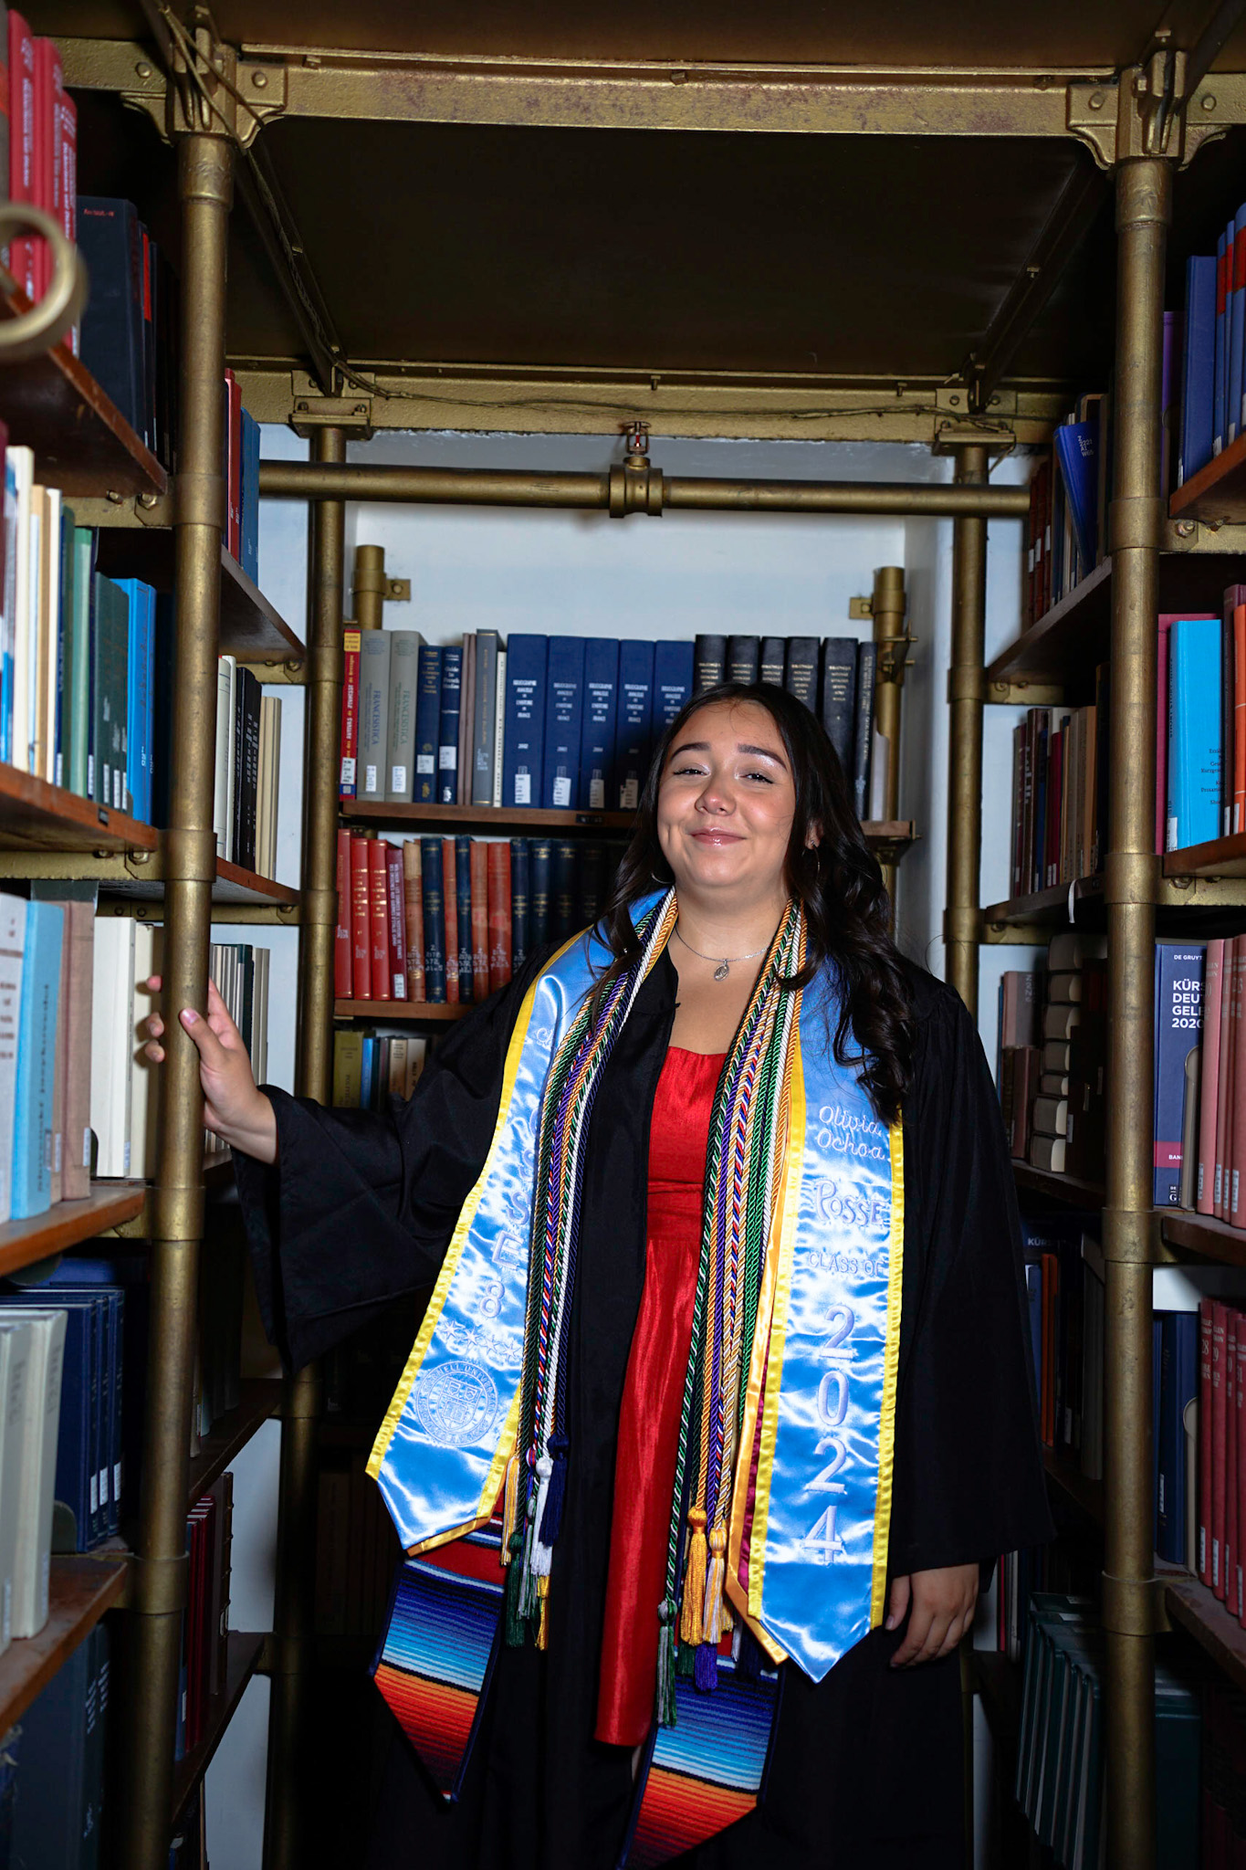
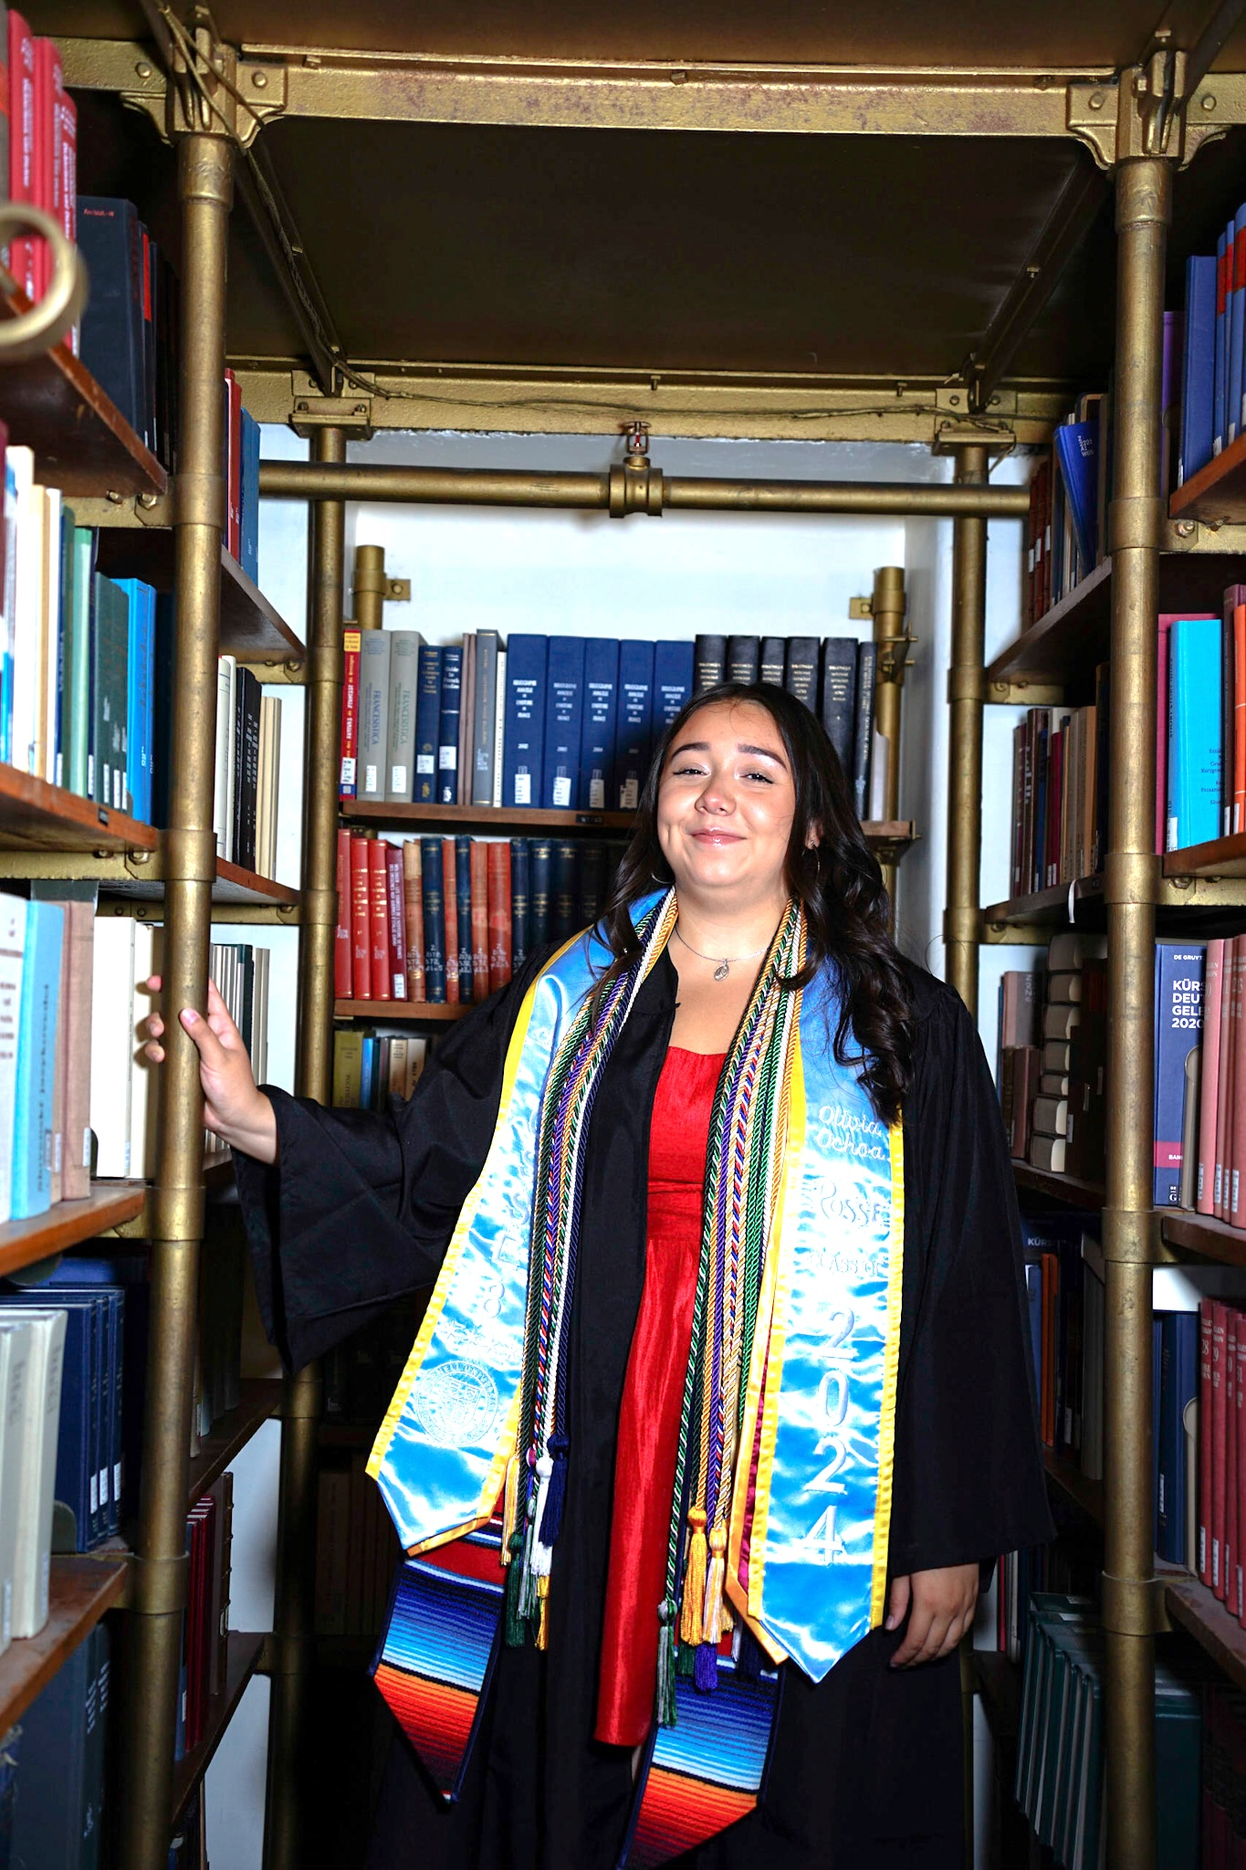
brightened photos, changed org. added background to #work

diff --git a/index.html b/index.html
@@ -128,98 +128,112 @@
       </section>
 
       <section id="work" class="gallery-section">
-        <div class="section-heading fade">
-          <p class="eyebrow">My Work</p>
-          <h2>200+ Completed Grad Sessions:</h2>
-        </div>
+        <div class="work-section-wrap">
+          <div class="section-heading fade">
+            <p class="eyebrow">My Work</p>
+            <h2>200+ Completed Grad Sessions:</h2>
+          </div>
 
-        <div class="work-grid">
-          <button class="work-card fade" type="button" data-lightbox-src="./Photos/DSC00226.JPG" data-lightbox-alt="ShotbyALL graduation portfolio image 1">
-            <img src="./Photos/DSC00226.JPG" alt="ShotbyALL graduation portfolio image 1" width="1200" height="1500" loading="lazy" decoding="async" />
-          </button>
-          <button class="work-card fade" type="button" data-lightbox-src="./Photos/DSC00332.JPG" data-lightbox-alt="ShotbyALL graduation portfolio image 2">
-            <img src="./Photos/DSC00332.JPG" alt="ShotbyALL graduation portfolio image 2" width="1200" height="1500" loading="lazy" decoding="async" />
-          </button>
-          <button class="work-card fade" type="button" data-lightbox-src="./Photos/DSC00564.JPG" data-lightbox-alt="ShotbyALL graduation portfolio image 3">
-            <img src="./Photos/DSC00564.JPG" alt="ShotbyALL graduation portfolio image 3" width="1200" height="1500" loading="lazy" decoding="async" />
-          </button>
-          <button class="work-card fade" type="button" data-lightbox-src="./Photos/DSC00874.JPG" data-lightbox-alt="ShotbyALL graduation portfolio image 4">
-            <img src="./Photos/DSC00874.JPG" alt="ShotbyALL graduation portfolio image 4" width="1200" height="1500" loading="lazy" decoding="async" />
-          </button>
-          <button class="work-card fade" type="button" data-lightbox-src="./Photos/DSC00894.JPG" data-lightbox-alt="ShotbyALL graduation portfolio image 5">
-            <img src="./Photos/DSC00894.JPG" alt="ShotbyALL graduation portfolio image 5" width="1200" height="1500" loading="lazy" decoding="async" />
-          </button>
-          <button class="work-card fade" type="button" data-lightbox-src="./Photos/DSC00938.JPG" data-lightbox-alt="ShotbyALL graduation portfolio image 6">
-            <img src="./Photos/DSC00938.JPG" alt="ShotbyALL graduation portfolio image 6" width="1200" height="1500" loading="lazy" decoding="async" />
-          </button>
-          <button class="work-card fade" type="button" data-lightbox-src="./Photos/DSC00941.JPG" data-lightbox-alt="ShotbyALL graduation portfolio image 7">
-            <img src="./Photos/DSC00941.JPG" alt="ShotbyALL graduation portfolio image 7" width="1200" height="1500" loading="lazy" decoding="async" />
-          </button>
-          <button class="work-card fade" type="button" data-lightbox-src="./Photos/DSC01092.JPG" data-lightbox-alt="ShotbyALL graduation portfolio image 8">
-            <img src="./Photos/DSC01092.JPG" alt="ShotbyALL graduation portfolio image 8" width="1200" height="1500" loading="lazy" decoding="async" />
-          </button>
-          <button class="work-card fade" type="button" data-lightbox-src="./Photos/DSC01139.JPG" data-lightbox-alt="ShotbyALL graduation portfolio image 9">
-            <img src="./Photos/DSC01139.JPG" alt="ShotbyALL graduation portfolio image 9" width="1200" height="1500" loading="lazy" decoding="async" />
-          </button>
-          <button class="work-card fade" type="button" data-lightbox-src="./Photos/DSC01485.JPG" data-lightbox-alt="ShotbyALL graduation portfolio image 10">
-            <img src="./Photos/DSC01485.JPG" alt="ShotbyALL graduation portfolio image 10" width="1200" height="1500" loading="lazy" decoding="async" />
-          </button>
-          <button class="work-card fade" type="button" data-lightbox-src="./Photos/DSC01807.JPG" data-lightbox-alt="ShotbyALL graduation portfolio image 11">
-            <img src="./Photos/DSC01807.JPG" alt="ShotbyALL graduation portfolio image 11" width="1200" height="1500" loading="lazy" decoding="async" />
-          </button>
-          <button class="work-card fade" type="button" data-lightbox-src="./Photos/DSC01862.JPG" data-lightbox-alt="ShotbyALL graduation portfolio image 13">
-            <img src="./Photos/DSC01862.JPG" alt="ShotbyALL graduation portfolio image 13" width="1200" height="1500" loading="lazy" decoding="async" />
-          </button>
-          <button class="work-card fade" type="button" data-lightbox-src="./Photos/DSC09463.JPG" data-lightbox-alt="ShotbyALL graduation portfolio image 14">
-            <img src="./Photos/DSC09463.JPG" alt="ShotbyALL graduation portfolio image 14" width="1200" height="1500" loading="lazy" decoding="async" />
-          </button>
-          <button class="work-card fade" type="button" data-lightbox-src="./Photos/IMG_0097.JPG" data-lightbox-alt="ShotbyALL graduation portfolio image 17">
-            <img src="./Photos/IMG_0097.JPG" alt="ShotbyALL graduation portfolio image 17" width="1200" height="1500" loading="lazy" decoding="async" />
-          </button>
-          <button class="work-card fade" type="button" data-lightbox-src="./Photos/IMG_0149.JPG" data-lightbox-alt="ShotbyALL graduation portfolio image 18">
-            <img src="./Photos/IMG_0149.JPG" alt="ShotbyALL graduation portfolio image 18" width="1200" height="1500" loading="lazy" decoding="async" />
-          </button>
-          <button class="work-card fade" type="button" data-lightbox-src="./Photos/IMG_0435.JPG" data-lightbox-alt="ShotbyALL graduation portfolio image 19">
-            <img src="./Photos/IMG_0435.JPG" alt="ShotbyALL graduation portfolio image 19" width="1200" height="1500" loading="lazy" decoding="async" />
-          </button>
-          <button class="work-card fade" type="button" data-lightbox-src="./Photos/IMG_6670.JPG" data-lightbox-alt="ShotbyALL graduation portfolio image 20">
-            <img src="./Photos/IMG_6670.JPG" alt="ShotbyALL graduation portfolio image 20" width="1200" height="1500" loading="lazy" decoding="async" />
-          </button>
-          <button class="work-card fade" type="button" data-lightbox-src="./Photos/IMG_6735.JPG" data-lightbox-alt="ShotbyALL graduation portfolio image 21">
-            <img src="./Photos/IMG_6735.JPG" alt="ShotbyALL graduation portfolio image 21" width="1200" height="1500" loading="lazy" decoding="async" />
-          </button>
-          <button class="work-card fade" type="button" data-lightbox-src="./Photos/IMG_6788.JPG" data-lightbox-alt="ShotbyALL graduation portfolio image 22">
-            <img src="./Photos/IMG_6788.JPG" alt="ShotbyALL graduation portfolio image 22" width="1200" height="1500" loading="lazy" decoding="async" />
-          </button>
-          <button class="work-card fade" type="button" data-lightbox-src="./Photos/IMG_7620.JPG" data-lightbox-alt="ShotbyALL graduation portfolio image 24">
-            <img src="./Photos/IMG_7620.JPG" alt="ShotbyALL graduation portfolio image 24" width="1200" height="1500" loading="lazy" decoding="async" />
-          </button>
-          <button class="work-card fade" type="button" data-lightbox-src="./Photos/IMG_7828.JPG" data-lightbox-alt="ShotbyALL graduation portfolio image 25">
-            <img src="./Photos/IMG_7828.JPG" alt="ShotbyALL graduation portfolio image 25" width="1200" height="1500" loading="lazy" decoding="async" />
-          </button>
-          <button class="work-card fade" type="button" data-lightbox-src="./Photos/IMG_7972.JPG" data-lightbox-alt="ShotbyALL graduation portfolio image 26">
-            <img src="./Photos/IMG_7972.JPG" alt="ShotbyALL graduation portfolio image 26" width="1200" height="1500" loading="lazy" decoding="async" />
-          </button>
-          <button class="work-card fade" type="button" data-lightbox-src="./Photos/IMG_8260.JPG" data-lightbox-alt="ShotbyALL graduation portfolio image 27">
-            <img src="./Photos/IMG_8260.JPG" alt="ShotbyALL graduation portfolio image 27" width="1200" height="1500" loading="lazy" decoding="async" />
-          </button>
-          <button class="work-card fade" type="button" data-lightbox-src="./Photos/IMG_8330.JPG" data-lightbox-alt="ShotbyALL graduation portfolio image 28">
-            <img src="./Photos/IMG_8330.JPG" alt="ShotbyALL graduation portfolio image 28" width="1200" height="1500" loading="lazy" decoding="async" />
-          </button>
-          <button class="work-card fade" type="button" data-lightbox-src="./Photos/IMG_9107.JPG" data-lightbox-alt="ShotbyALL graduation portfolio image 30">
-            <img src="./Photos/IMG_9107.JPG" alt="ShotbyALL graduation portfolio image 30" width="1200" height="1500" loading="lazy" decoding="async" />
-          </button>
-          <button class="work-card fade" type="button" data-lightbox-src="./Photos/IMG_9359.JPG" data-lightbox-alt="ShotbyALL graduation portfolio image 31">
-            <img src="./Photos/IMG_9359.JPG" alt="ShotbyALL graduation portfolio image 31" width="1200" height="1500" loading="lazy" decoding="async" />
-          </button>
-          <button class="work-card fade" type="button" data-lightbox-src="./Photos/IMG_9415.JPG" data-lightbox-alt="ShotbyALL graduation portfolio image 33">
+          <div class="work-grid">
+<button class="work-card fade" type="button" data-lightbox-src="./Photos/IMG_9415.JPG" data-lightbox-alt="ShotbyALL graduation portfolio image 33">
             <img src="./Photos/IMG_9415.JPG" alt="ShotbyALL graduation portfolio image 33" width="1200" height="1500" loading="lazy" decoding="async" />
           </button>
-          <button class="work-card fade" type="button" data-lightbox-src="./Photos/IMG_9898.JPG" data-lightbox-alt="ShotbyALL graduation portfolio image 34">
-            <img src="./Photos/IMG_9898.JPG" alt="ShotbyALL graduation portfolio image 34" width="1200" height="1500" loading="lazy" decoding="async" />
+<button class="work-card fade" type="button" data-lightbox-src="./Photos/DSC01485.JPG" data-lightbox-alt="ShotbyALL graduation portfolio image 10">
+            <img src="./Photos/DSC01485.JPG" alt="ShotbyALL graduation portfolio image 10" width="1200" height="1500" loading="lazy" decoding="async" />
+          </button>
+<button class="work-card fade" type="button" data-lightbox-src="./Photos/DSC01435.JPG" data-lightbox-alt="ShotbyALL graduation portfolio image 36">
+            <img src="./Photos/DSC01435.JPG" alt="ShotbyALL graduation portfolio image 36" width="1200" height="1500" loading="lazy" decoding="async" />
+          </button>
+<button class="work-card fade" type="button" data-lightbox-src="./Photos/DSC09728.JPG" data-lightbox-alt="ShotbyALL graduation portfolio image 39">
+            <img src="./Photos/DSC09728.JPG" alt="ShotbyALL graduation portfolio image 39" width="1200" height="1500" loading="lazy" decoding="async" />
+          </button>
+<button class="work-card fade" type="button" data-lightbox-src="./Photos/DSC01139.JPG" data-lightbox-alt="ShotbyALL graduation portfolio image 9">
+            <img src="./Photos/DSC01139.JPG" alt="ShotbyALL graduation portfolio image 9" width="1200" height="1500" loading="lazy" decoding="async" />
+          </button>
+<button class="work-card fade" type="button" data-lightbox-src="./Photos/IMG_6735.JPG" data-lightbox-alt="ShotbyALL graduation portfolio image 21">
+            <img src="./Photos/IMG_6735.JPG" alt="ShotbyALL graduation portfolio image 21" width="1200" height="1500" loading="lazy" decoding="async" />
+          </button>
+<button class="work-card fade" type="button" data-lightbox-src="./Photos/IMG_9107.JPG" data-lightbox-alt="ShotbyALL graduation portfolio image 30">
+            <img src="./Photos/IMG_9107.JPG" alt="ShotbyALL graduation portfolio image 30" width="1200" height="1500" loading="lazy" decoding="async" />
+          </button>
+<button class="work-card fade" type="button" data-lightbox-src="./Photos/DSC00564.JPG" data-lightbox-alt="ShotbyALL graduation portfolio image 3">
+            <img src="./Photos/DSC00564.JPG" alt="ShotbyALL graduation portfolio image 3" width="1200" height="1500" loading="lazy" decoding="async" />
+          </button>
+<button class="work-card fade" type="button" data-lightbox-src="./Photos/DSC00941.JPG" data-lightbox-alt="ShotbyALL graduation portfolio image 7">
+            <img src="./Photos/DSC00941.JPG" alt="ShotbyALL graduation portfolio image 7" width="1200" height="1500" loading="lazy" decoding="async" />
+          </button>
+<button class="work-card fade" type="button" data-lightbox-src="./Photos/DSC00226.JPG" data-lightbox-alt="ShotbyALL graduation portfolio image 1">
+            <img src="./Photos/DSC00226.JPG" alt="ShotbyALL graduation portfolio image 1" width="1200" height="1500" loading="lazy" decoding="async" />
+          </button>
+<button class="work-card fade" type="button" data-lightbox-src="./Photos/DSC01807.JPG" data-lightbox-alt="ShotbyALL graduation portfolio image 11">
+            <img src="./Photos/DSC01807.JPG" alt="ShotbyALL graduation portfolio image 11" width="1200" height="1500" loading="lazy" decoding="async" />
+          </button>
+<button class="work-card fade" type="button" data-lightbox-src="./Photos/DSC00938.JPG" data-lightbox-alt="ShotbyALL graduation portfolio image 6">
+            <img src="./Photos/DSC00938.JPG" alt="ShotbyALL graduation portfolio image 6" width="1200" height="1500" loading="lazy" decoding="async" />
+          </button>
+<button class="work-card fade" type="button" data-lightbox-src="./Photos/DSC07450.JPG" data-lightbox-alt="ShotbyALL graduation portfolio image 38">
+            <img src="./Photos/DSC07450.JPG" alt="ShotbyALL graduation portfolio image 38" width="1200" height="1500" loading="lazy" decoding="async" />
+          </button>
+<button class="work-card fade" type="button" data-lightbox-src="./Photos/DSC01092.JPG" data-lightbox-alt="ShotbyALL graduation portfolio image 8">
+            <img src="./Photos/DSC01092.JPG" alt="ShotbyALL graduation portfolio image 8" width="1200" height="1500" loading="lazy" decoding="async" />
+          </button>
+<button class="work-card fade" type="button" data-lightbox-src="./Photos/DSC00874.JPG" data-lightbox-alt="ShotbyALL graduation portfolio image 4">
+            <img src="./Photos/DSC00874.JPG" alt="ShotbyALL graduation portfolio image 4" width="1200" height="1500" loading="lazy" decoding="async" />
+          </button>
+<button class="work-card fade" type="button" data-lightbox-src="./Photos/IMG_7620.JPG" data-lightbox-alt="ShotbyALL graduation portfolio image 24">
+            <img src="./Photos/IMG_7620.JPG" alt="ShotbyALL graduation portfolio image 24" width="1200" height="1500" loading="lazy" decoding="async" />
+          </button>
+<button class="work-card fade" type="button" data-lightbox-src="./Photos/DSC01412.JPG" data-lightbox-alt="ShotbyALL graduation portfolio image 35">
+            <img src="./Photos/DSC01412.JPG" alt="ShotbyALL graduation portfolio image 35" width="1200" height="1500" loading="lazy" decoding="async" />
+          </button>
+<button class="work-card fade" type="button" data-lightbox-src="./Photos/DSC07366.JPG" data-lightbox-alt="ShotbyALL graduation portfolio image 37">
+            <img src="./Photos/DSC07366.JPG" alt="ShotbyALL graduation portfolio image 37" width="1200" height="1500" loading="lazy" decoding="async" />
+          </button>
+<button class="work-card fade" type="button" data-lightbox-src="./Photos/IMG_7972.JPG" data-lightbox-alt="ShotbyALL graduation portfolio image 26">
+            <img src="./Photos/IMG_7972.JPG" alt="ShotbyALL graduation portfolio image 26" width="1200" height="1500" loading="lazy" decoding="async" />
+          </button>
+<button class="work-card fade" type="button" data-lightbox-src="./Photos/DSC01130.JPG" data-lightbox-alt="ShotbyALL graduation portfolio image 34">
+            <img src="./Photos/DSC01130.JPG" alt="ShotbyALL graduation portfolio image 34" width="1200" height="1500" loading="lazy" decoding="async" />
+          </button>
+<button class="work-card fade" type="button" data-lightbox-src="./Photos/IMG_0149.JPG" data-lightbox-alt="ShotbyALL graduation portfolio image 18">
+            <img src="./Photos/IMG_0149.JPG" alt="ShotbyALL graduation portfolio image 18" width="1200" height="1500" loading="lazy" decoding="async" />
+          </button>
+<button class="work-card fade" type="button" data-lightbox-src="./Photos/IMG_8260.JPG" data-lightbox-alt="ShotbyALL graduation portfolio image 27">
+            <img src="./Photos/IMG_8260.JPG" alt="ShotbyALL graduation portfolio image 27" width="1200" height="1500" loading="lazy" decoding="async" />
+          </button>
+<button class="work-card fade" type="button" data-lightbox-src="./Photos/IMG_6670.JPG" data-lightbox-alt="ShotbyALL graduation portfolio image 20">
+            <img src="./Photos/IMG_6670.JPG" alt="ShotbyALL graduation portfolio image 20" width="1200" height="1500" loading="lazy" decoding="async" />
+          </button>
+<button class="work-card fade" type="button" data-lightbox-src="./Photos/IMG_0097.JPG" data-lightbox-alt="ShotbyALL graduation portfolio image 17">
+            <img src="./Photos/IMG_0097.JPG" alt="ShotbyALL graduation portfolio image 17" width="1200" height="1500" loading="lazy" decoding="async" />
+          </button>
+<button class="work-card fade" type="button" data-lightbox-src="./Photos/DSC01862.JPG" data-lightbox-alt="ShotbyALL graduation portfolio image 13">
+            <img src="./Photos/DSC01862.JPG" alt="ShotbyALL graduation portfolio image 13" width="1200" height="1500" loading="lazy" decoding="async" />
+          </button>
+<button class="work-card fade" type="button" data-lightbox-src="./Photos/IMG_6788.JPG" data-lightbox-alt="ShotbyALL graduation portfolio image 22">
+            <img src="./Photos/IMG_6788.JPG" alt="ShotbyALL graduation portfolio image 22" width="1200" height="1500" loading="lazy" decoding="async" />
+          </button>
+<button class="work-card fade" type="button" data-lightbox-src="./Photos/IMG_8330.JPG" data-lightbox-alt="ShotbyALL graduation portfolio image 28">
+            <img src="./Photos/IMG_8330.JPG" alt="ShotbyALL graduation portfolio image 28" width="1200" height="1500" loading="lazy" decoding="async" />
+          </button>
+<button class="work-card fade" type="button" data-lightbox-src="./Photos/IMG_0435.JPG" data-lightbox-alt="ShotbyALL graduation portfolio image 19">
+            <img src="./Photos/IMG_0435.JPG" alt="ShotbyALL graduation portfolio image 19" width="1200" height="1500" loading="lazy" decoding="async" />
+          </button>
+<button class="work-card fade" type="button" data-lightbox-src="./Photos/IMG_7828.JPG" data-lightbox-alt="ShotbyALL graduation portfolio image 25">
+            <img src="./Photos/IMG_7828.JPG" alt="ShotbyALL graduation portfolio image 25" width="1200" height="1500" loading="lazy" decoding="async" />
+          </button>
+<button class="work-card fade" type="button" data-lightbox-src="./Photos/DSC09463.JPG" data-lightbox-alt="ShotbyALL graduation portfolio image 14">
+            <img src="./Photos/DSC09463.JPG" alt="ShotbyALL graduation portfolio image 14" width="1200" height="1500" loading="lazy" decoding="async" />
+          </button>
+<button class="work-card fade" type="button" data-lightbox-src="./Photos/DSC00332.JPG" data-lightbox-alt="ShotbyALL graduation portfolio image 2">
+            <img src="./Photos/DSC00332.JPG" alt="ShotbyALL graduation portfolio image 2" width="1200" height="1500" loading="lazy" decoding="async" />
           </button>
         </div>
+      </div>
       </section>
+
+      <br>
+      <br>
 
       <section id="pricing" class="pricing-section section-shell">
         <div class="section-heading fade">

diff --git a/styles.css b/styles.css
@@ -290,6 +290,35 @@ button {
   gap: var(--gap);
 }
 
+#work {
+  background: #1d2025;
+  color: #ffffff;
+  width: 100%;
+}
+
+#work.gallery-section {
+  width: 100%;
+  padding: 0;
+}
+
+#work .work-section-wrap {
+  max-width: var(--max-width);
+  width: min(calc(100% - 48px), var(--max-width));
+  margin: 0 auto;
+  padding: 40px 0;
+  color: #ffffff;
+}
+
+#work .section-heading .eyebrow,
+#work .section-heading h2 {
+  color: #ffffff;
+}
+
+#work .work-grid {
+  background-color: transparent;
+}
+
+
 .work-card {
   position: relative;
   padding: 0;
